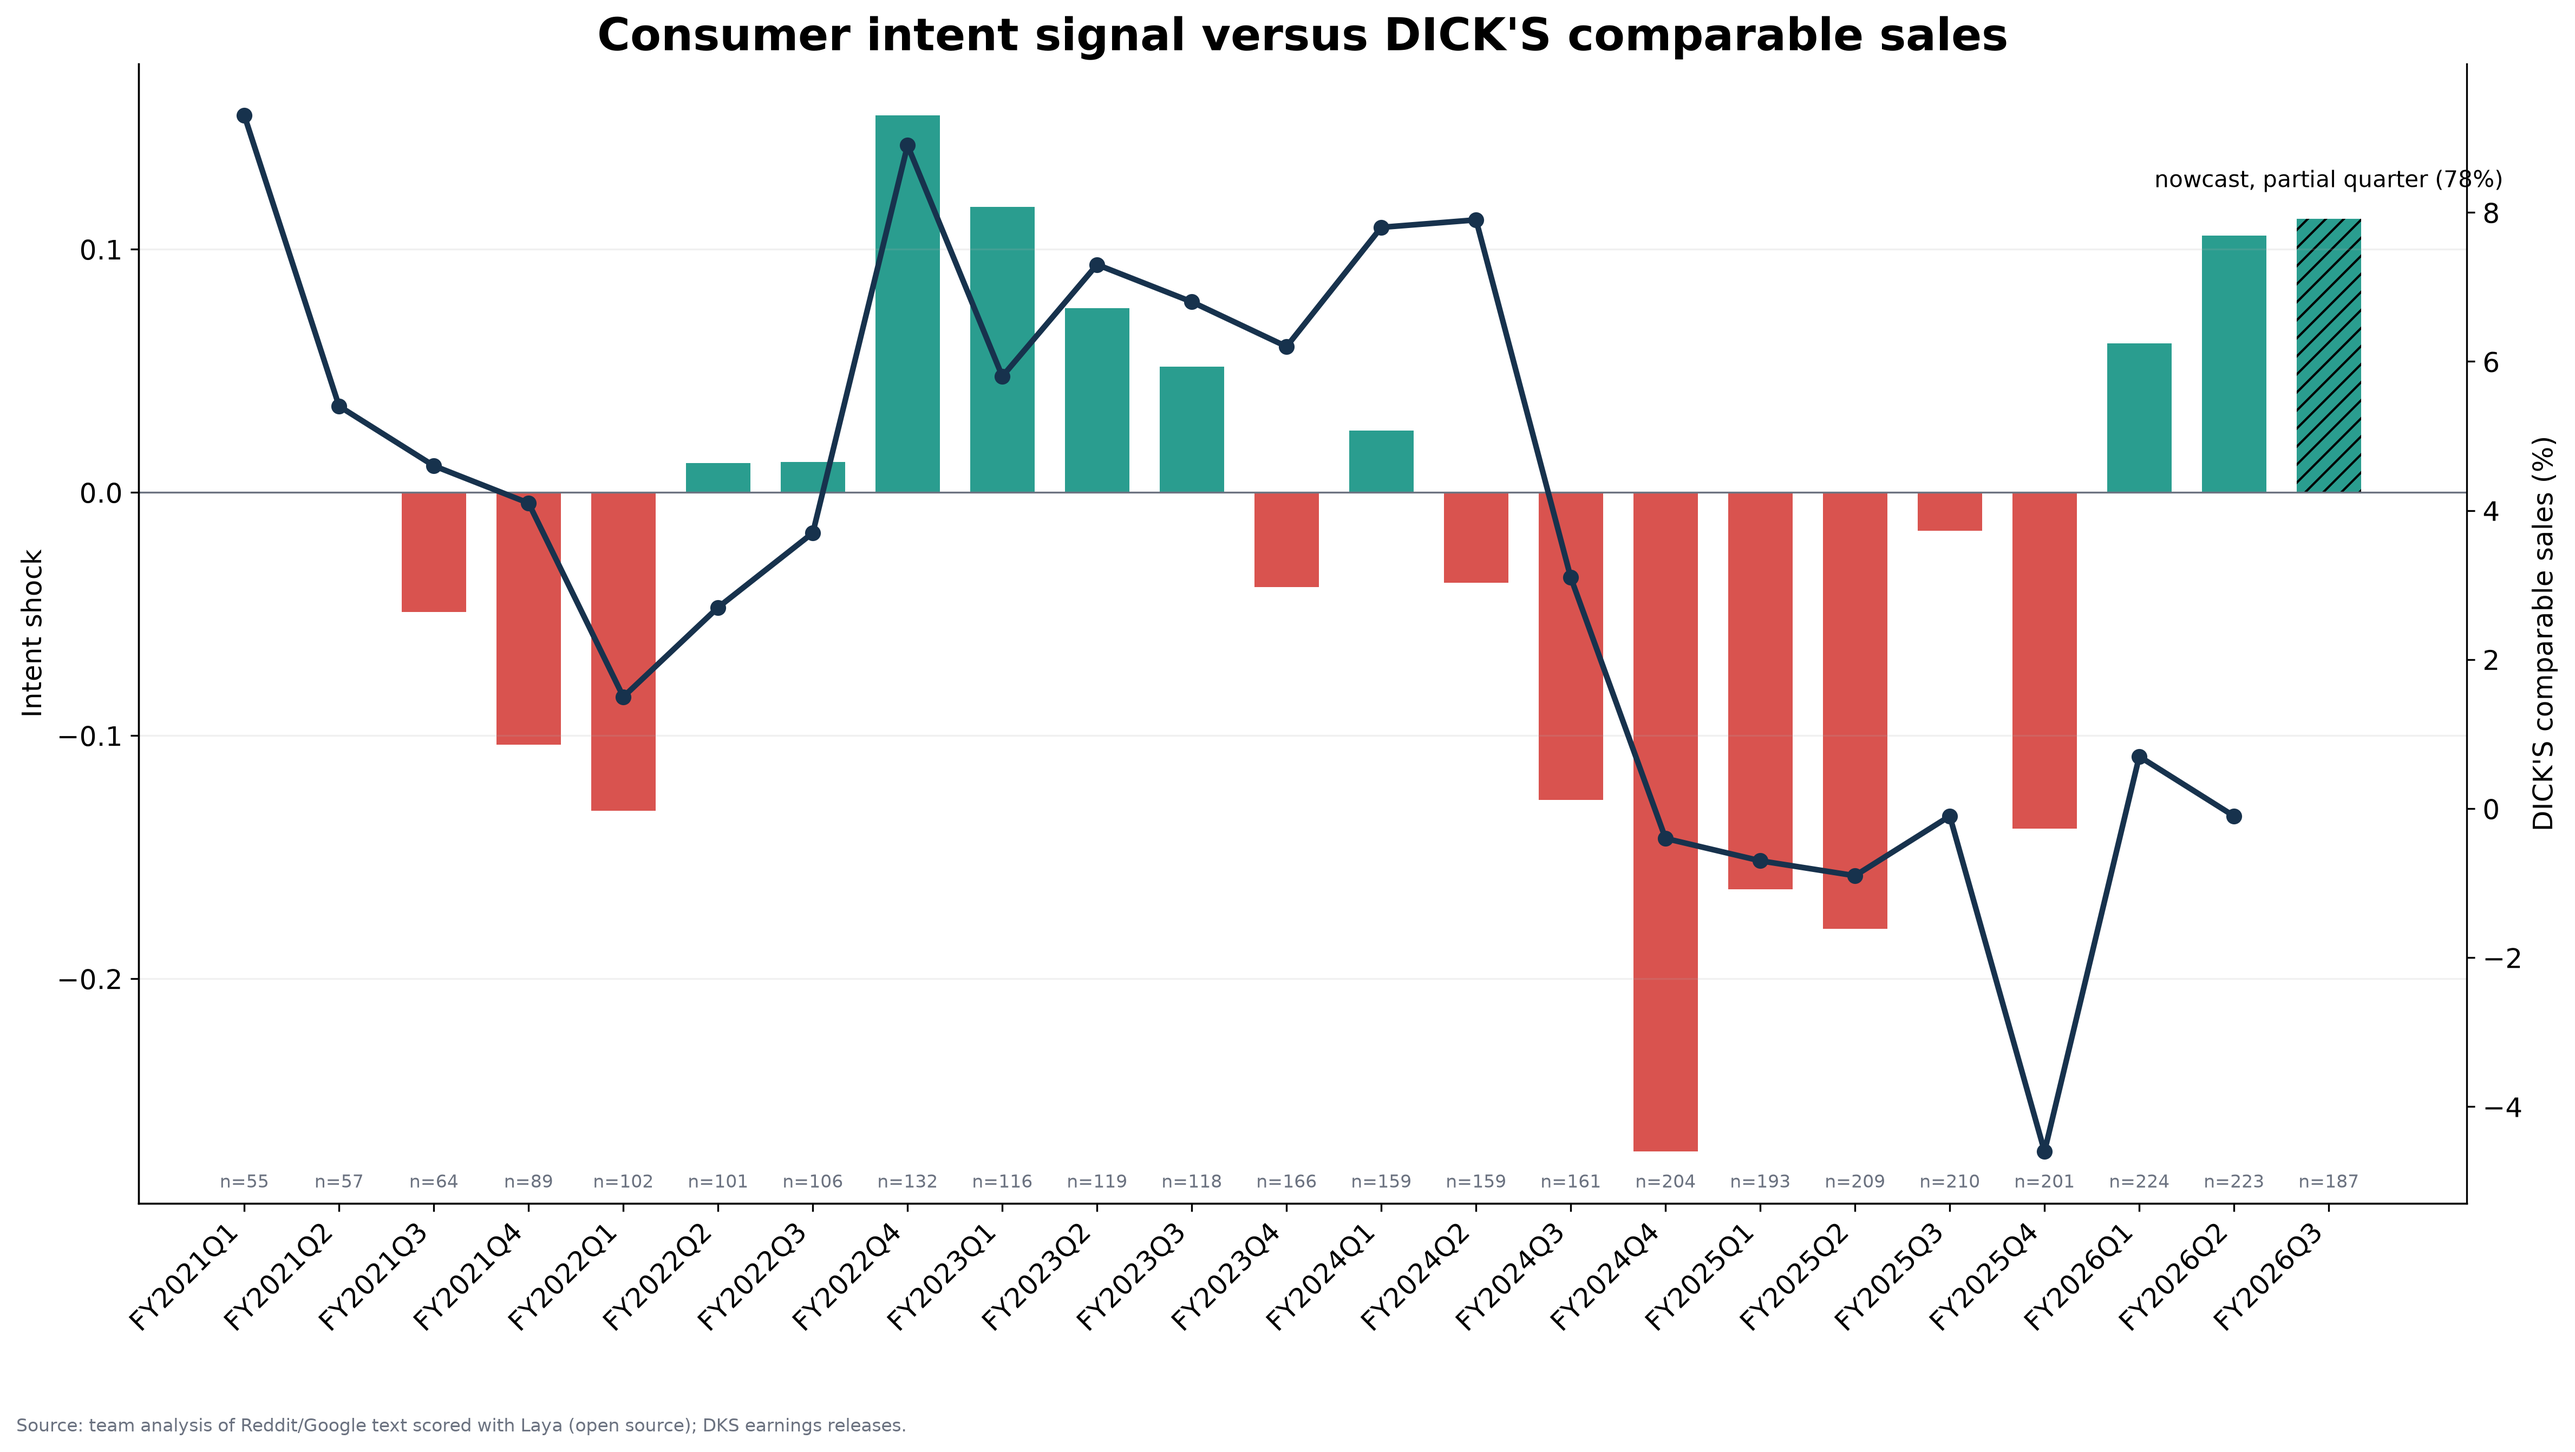
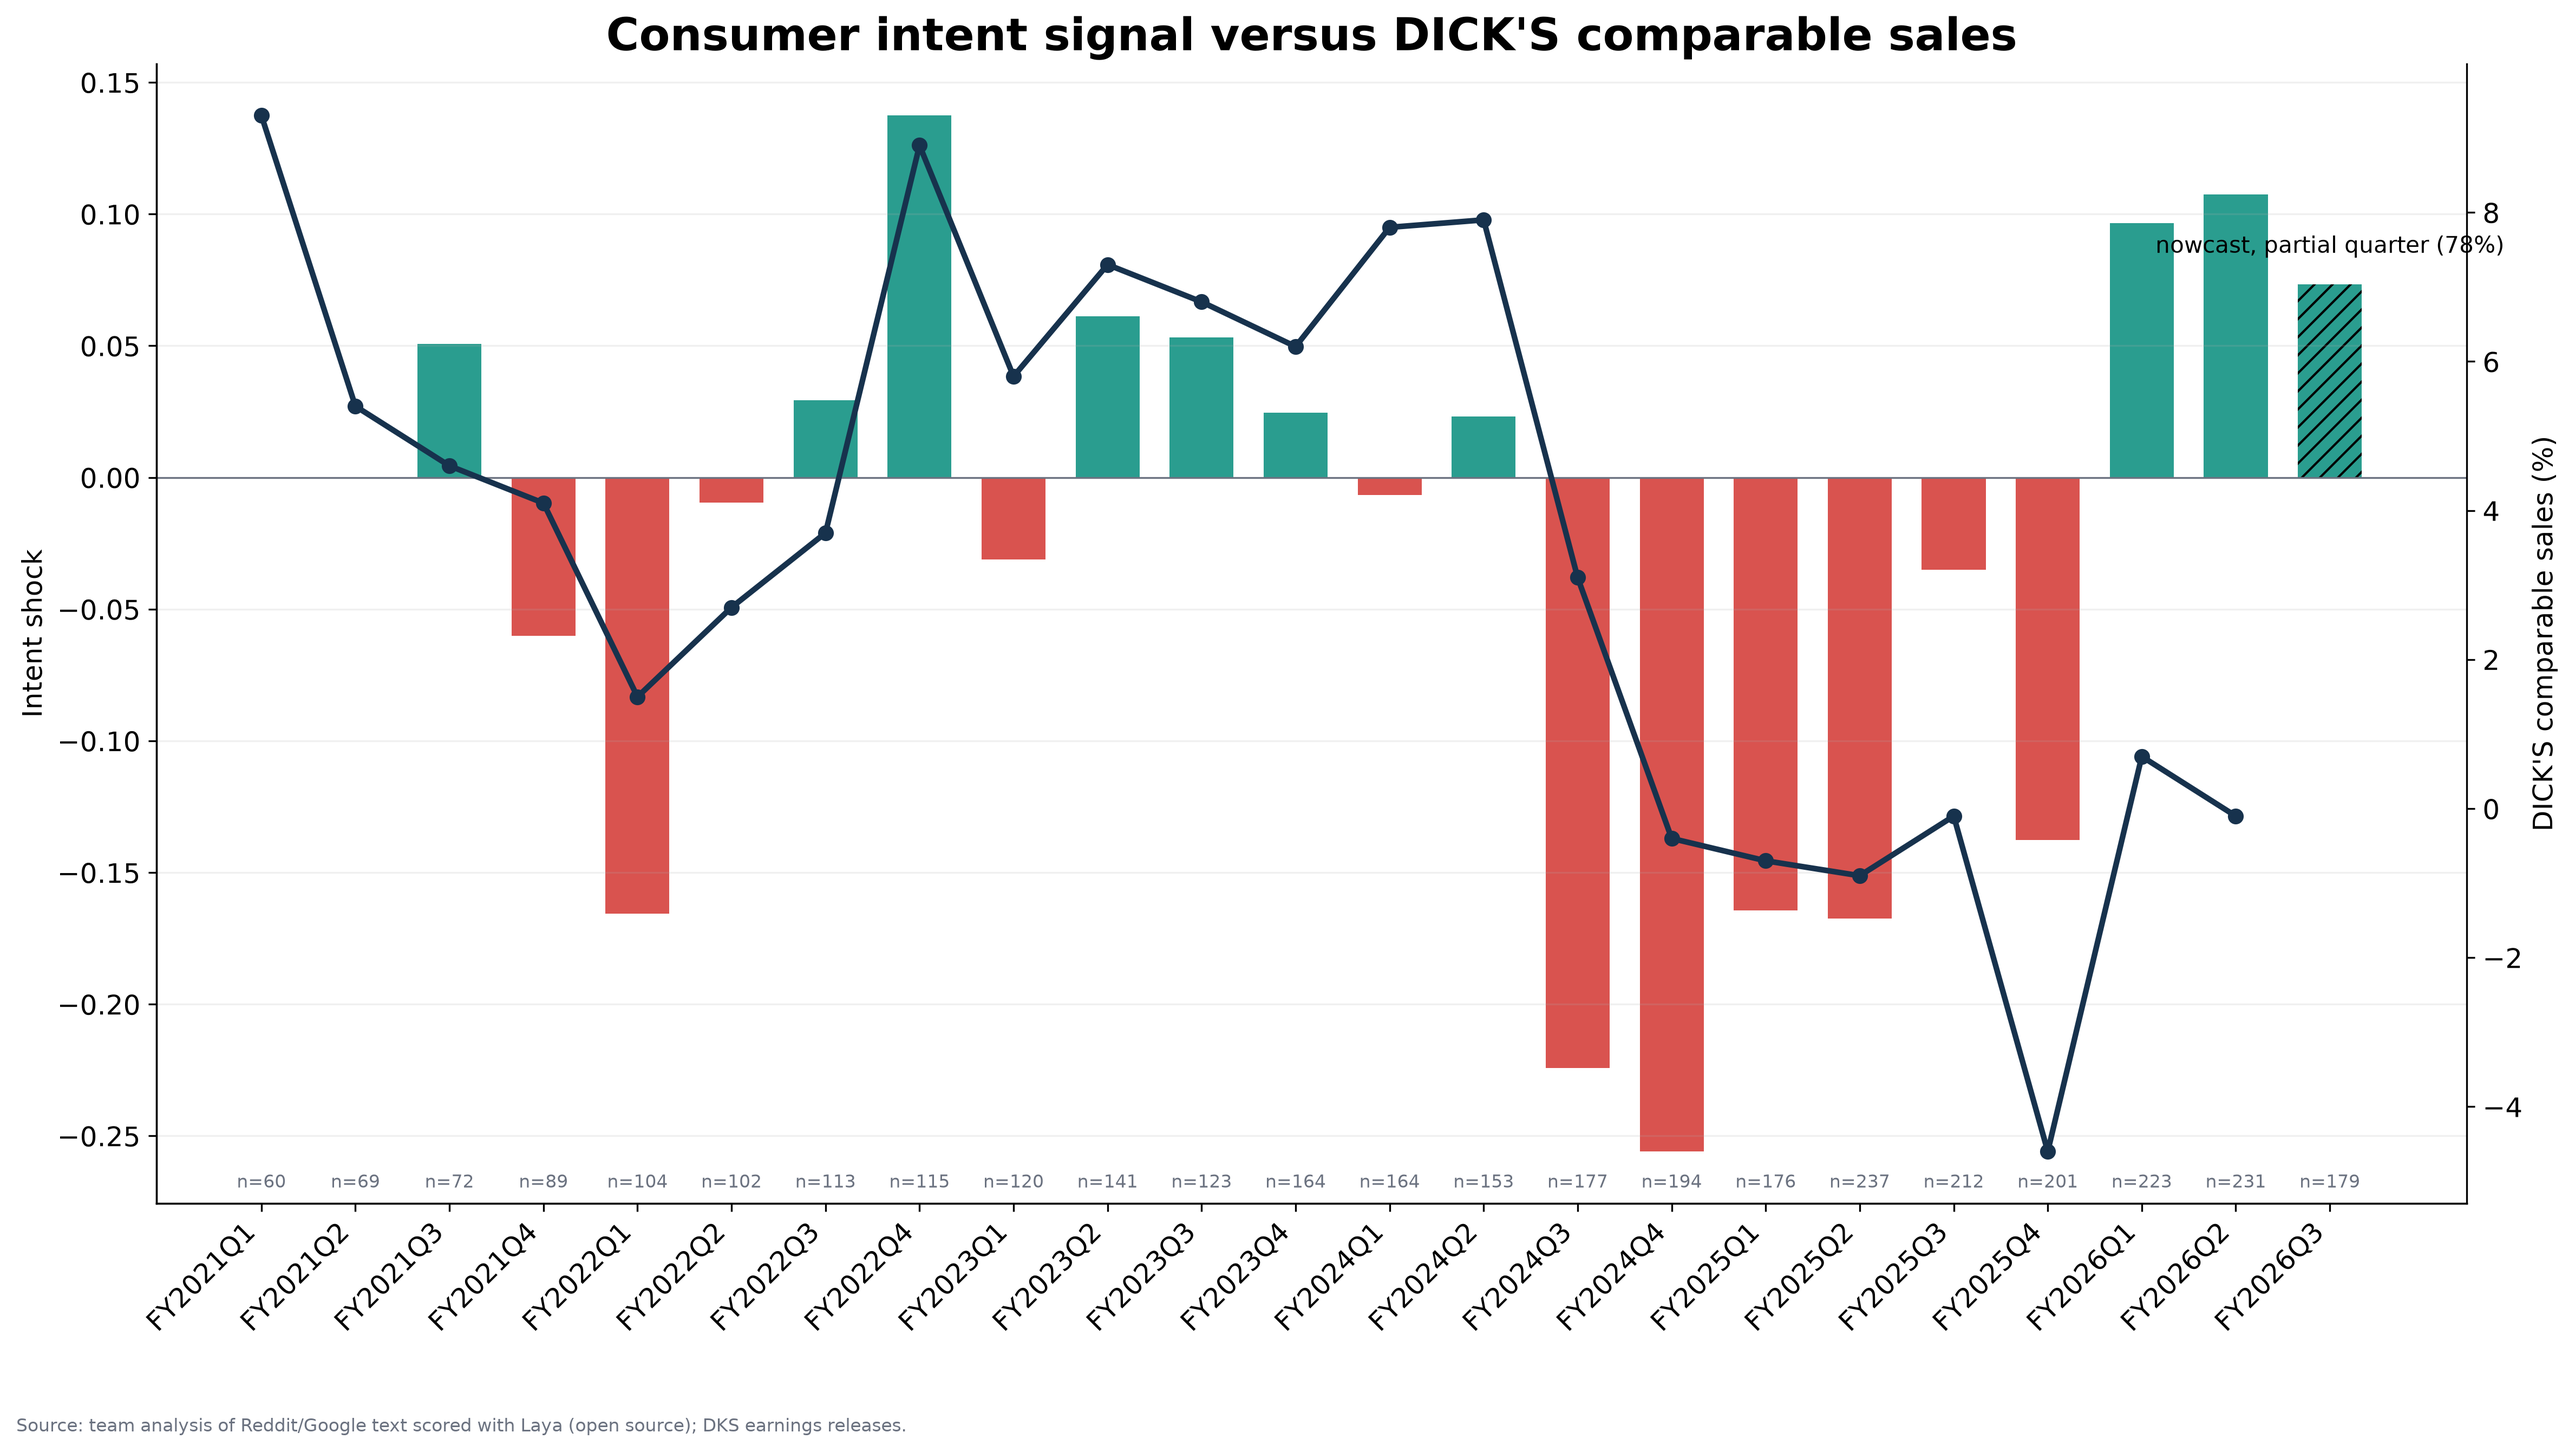
[P3] refresh figures from implemented mock pipeline

diff --git a/status/P3.md b/status/P3.md
@@ -4,6 +4,7 @@
 
 - Added `src/figures.py` for the four contracted slide figures, with strict separation between mock and real inputs.
 - Rendered and visually checked all four `MOCK_` figures from P2's contracted mock handoff.
+- Re-rendered and visually checked the mock figures after P2 implemented `aggregate.py` and `backtest.py` (commit `ebc493b`); the updated pipeline outputs remain mock-only.
 - Added both evidence/bridge slide variants under `docs/deck/`.
 - Added a manual Excel wiring guide under `model/`; no workbook was generated or modified.
 
@@ -27,5 +28,5 @@
 
 ## Requests
 
-- P2: push final `quarterly_index.csv`, `item_features.csv`, `metrics.csv`, `nowcast.json`, and `agreement.json` using the contracted paths.
+- P2: finish scoring, then push final `quarterly_index.csv`, `item_features.csv`, `metrics.csv`, `nowcast.json`, and `agreement.json` using the contracted paths.
 - P1: push cleaned `items.csv`, `dks_quarters.csv`, and appendix text using the contracted paths.
